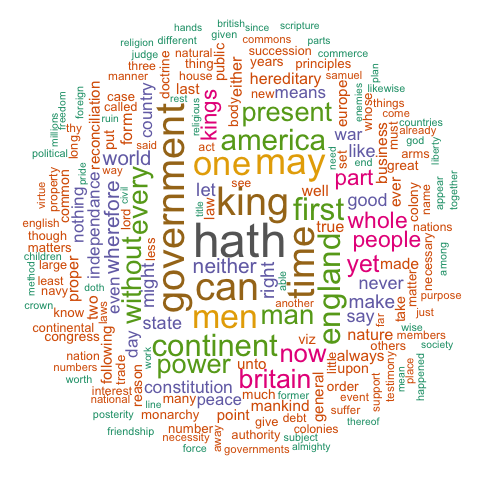
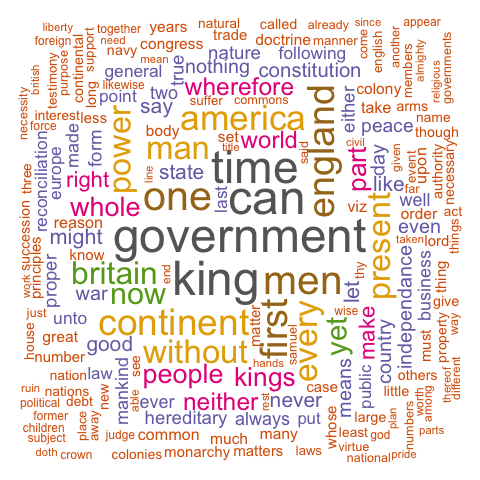
Add more stop words. Change the seed. Update the README.md file.

diff --git a/README.md b/README.md
@@ -1,11 +1,22 @@
 Data sources: 
 
-US Declaration of Independence: http://constitution.org/usdeclar.txt
-
-US Constitution: https://www.usconstitution.net/const.txt
-
-Common Sense: http://www.gutenberg.org/cache/epub/147/pg147.txt
-
-The Federalist Papers: http://www.gutenberg.org/cache/epub/18/pg18.txt
+* US Declaration of Independence: http://constitution.org/usdeclar.txt
+* US Constitution: https://www.usconstitution.net/const.txt
+* Common Sense: http://www.gutenberg.org/cache/epub/147/pg147.txt
+* The Federalist Papers: http://www.gutenberg.org/cache/epub/18/pg18.txt
 
 Following the guide: https://www.r-bloggers.com/text-mining-and-word-cloud-fundamentals-in-r-5-simple-steps-you-should-know/
+
+Results: 
+
+#### US Declaration of Independence
+![US Declaration of Independence](https://raw.githubusercontent.com/frazjp65/freedom-wordclouds/master/output/usdeclar.png)
+
+#### US Constitution
+![US Constitution](https://raw.githubusercontent.com/frazjp65/freedom-wordclouds/master/output/const.png)
+
+#### Common Sense
+![Common Sense](https://raw.githubusercontent.com/frazjp65/freedom-wordclouds/master/output/common-sense.png)
+
+#### The Federalist Papers
+![The Federalist Papers](https://raw.githubusercontent.com/frazjp65/freedom-wordclouds/master/output/federalist.png)
